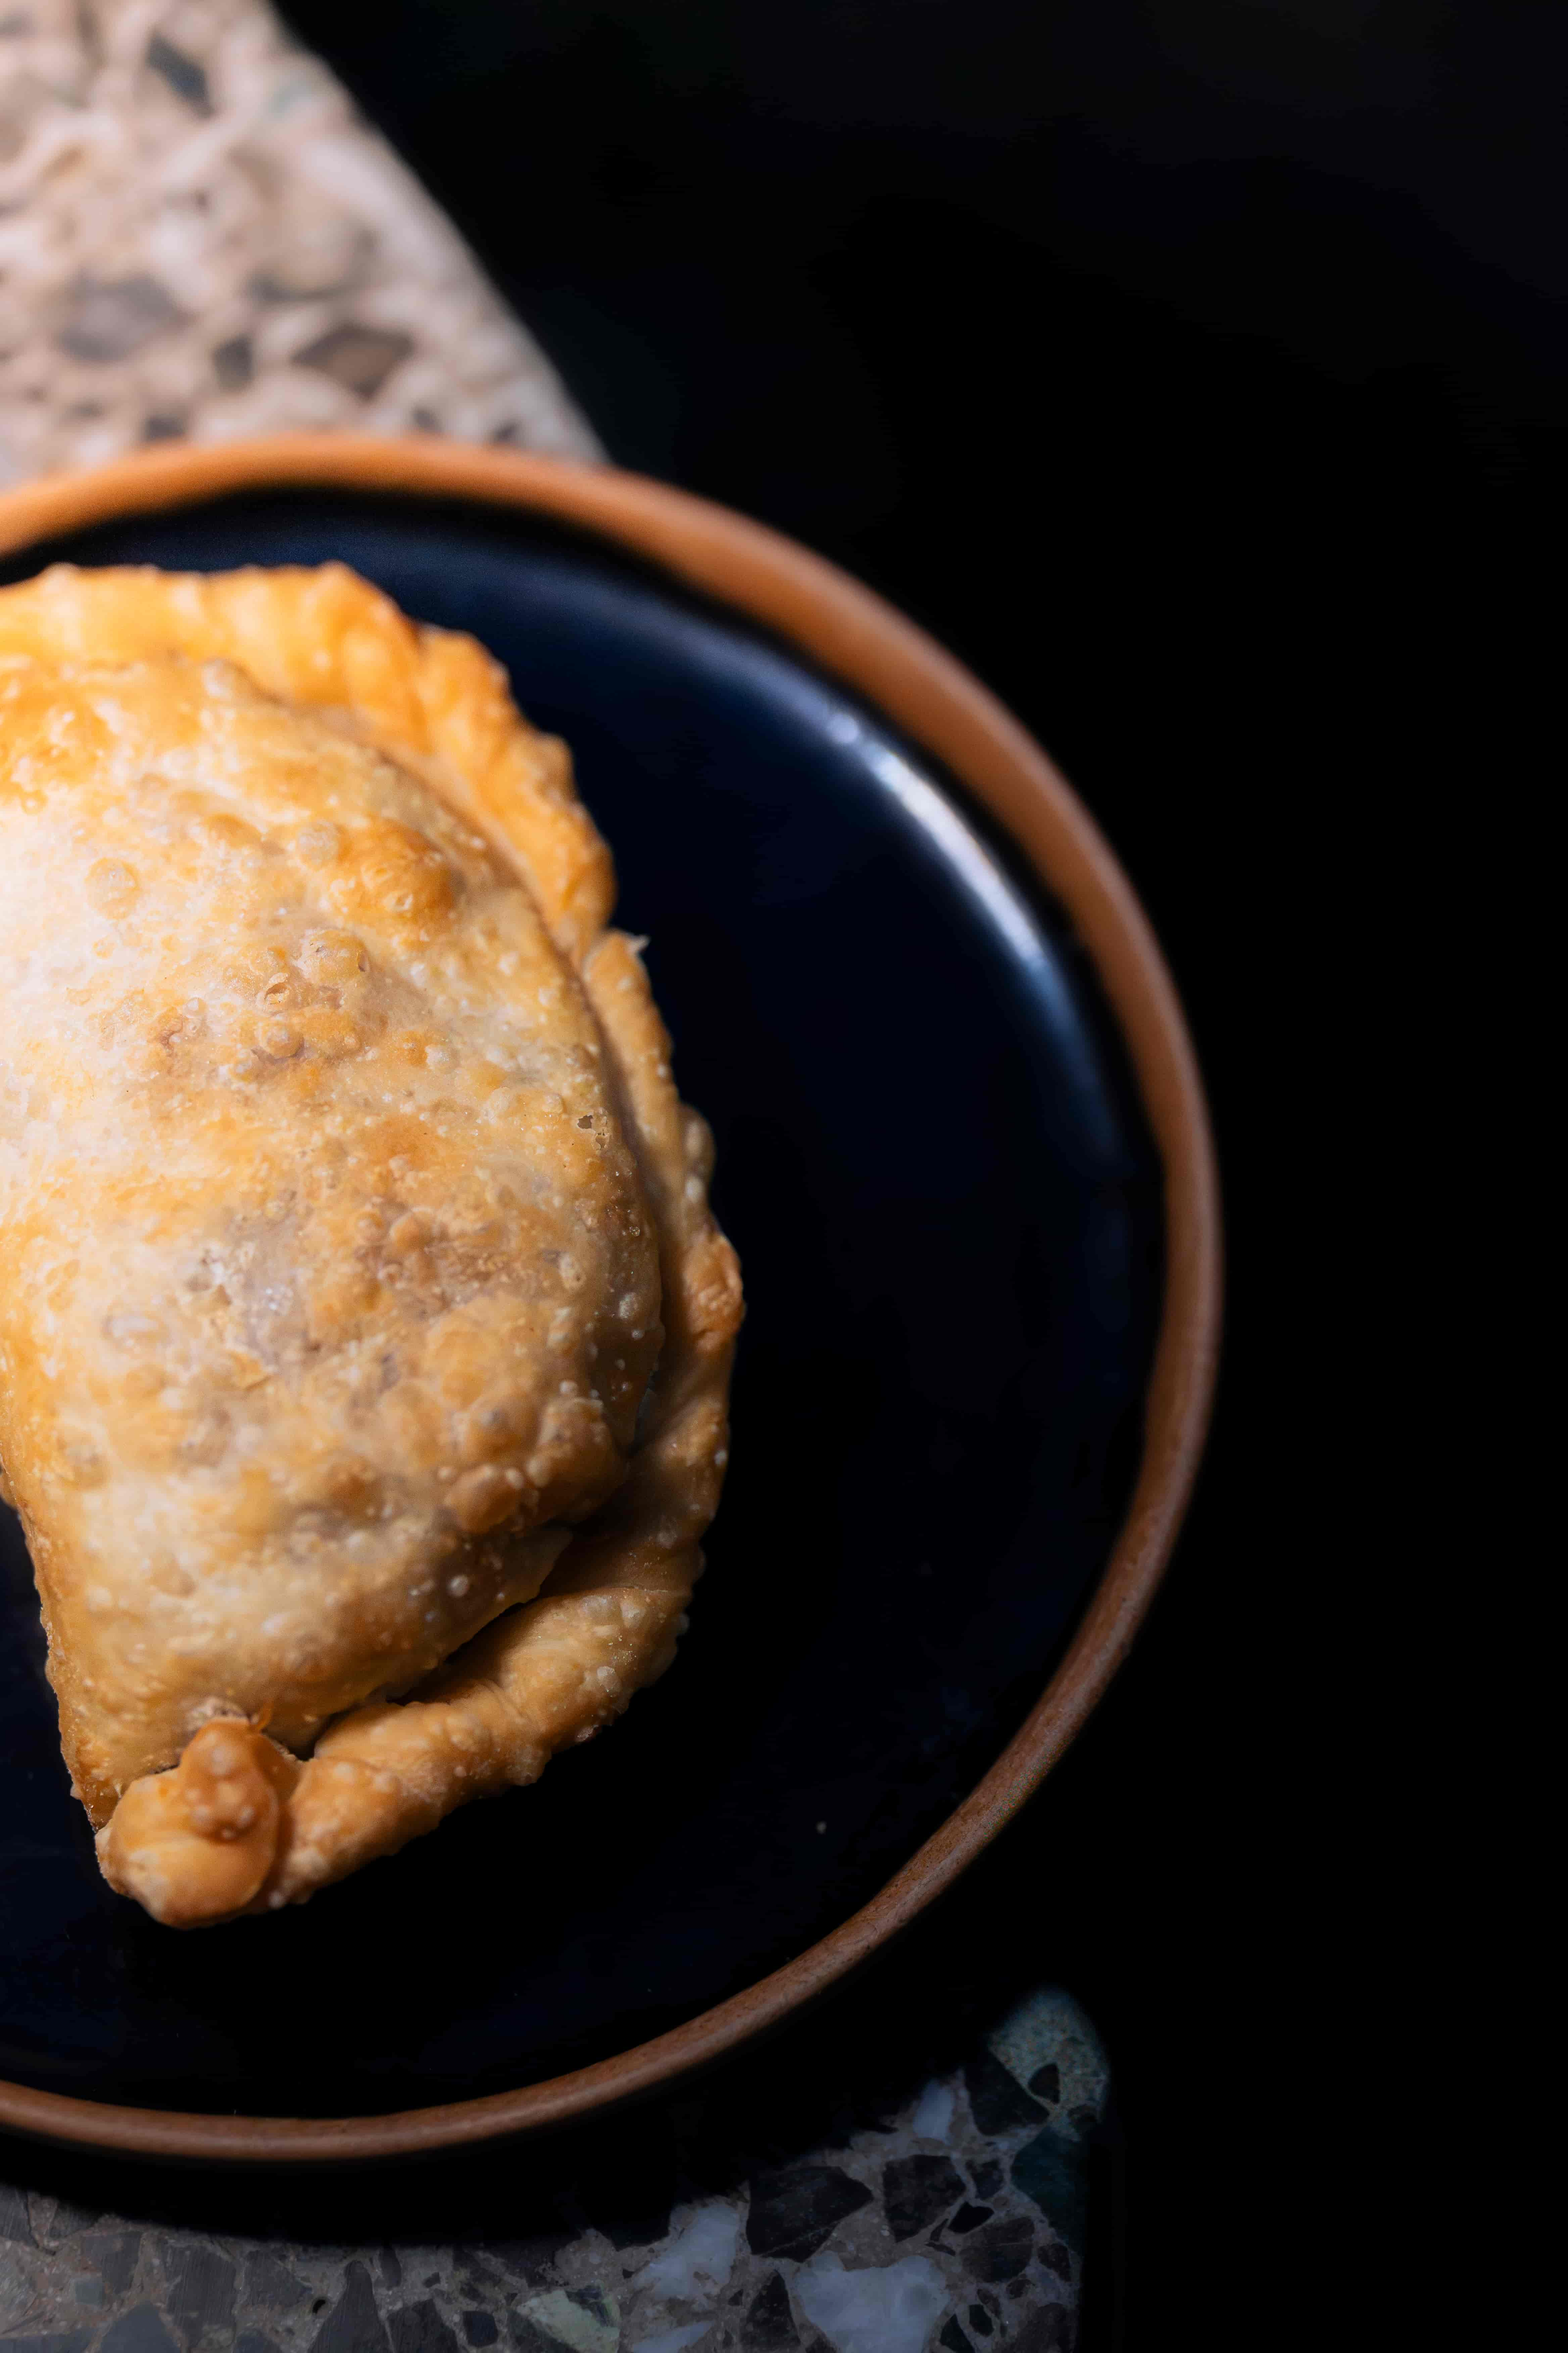
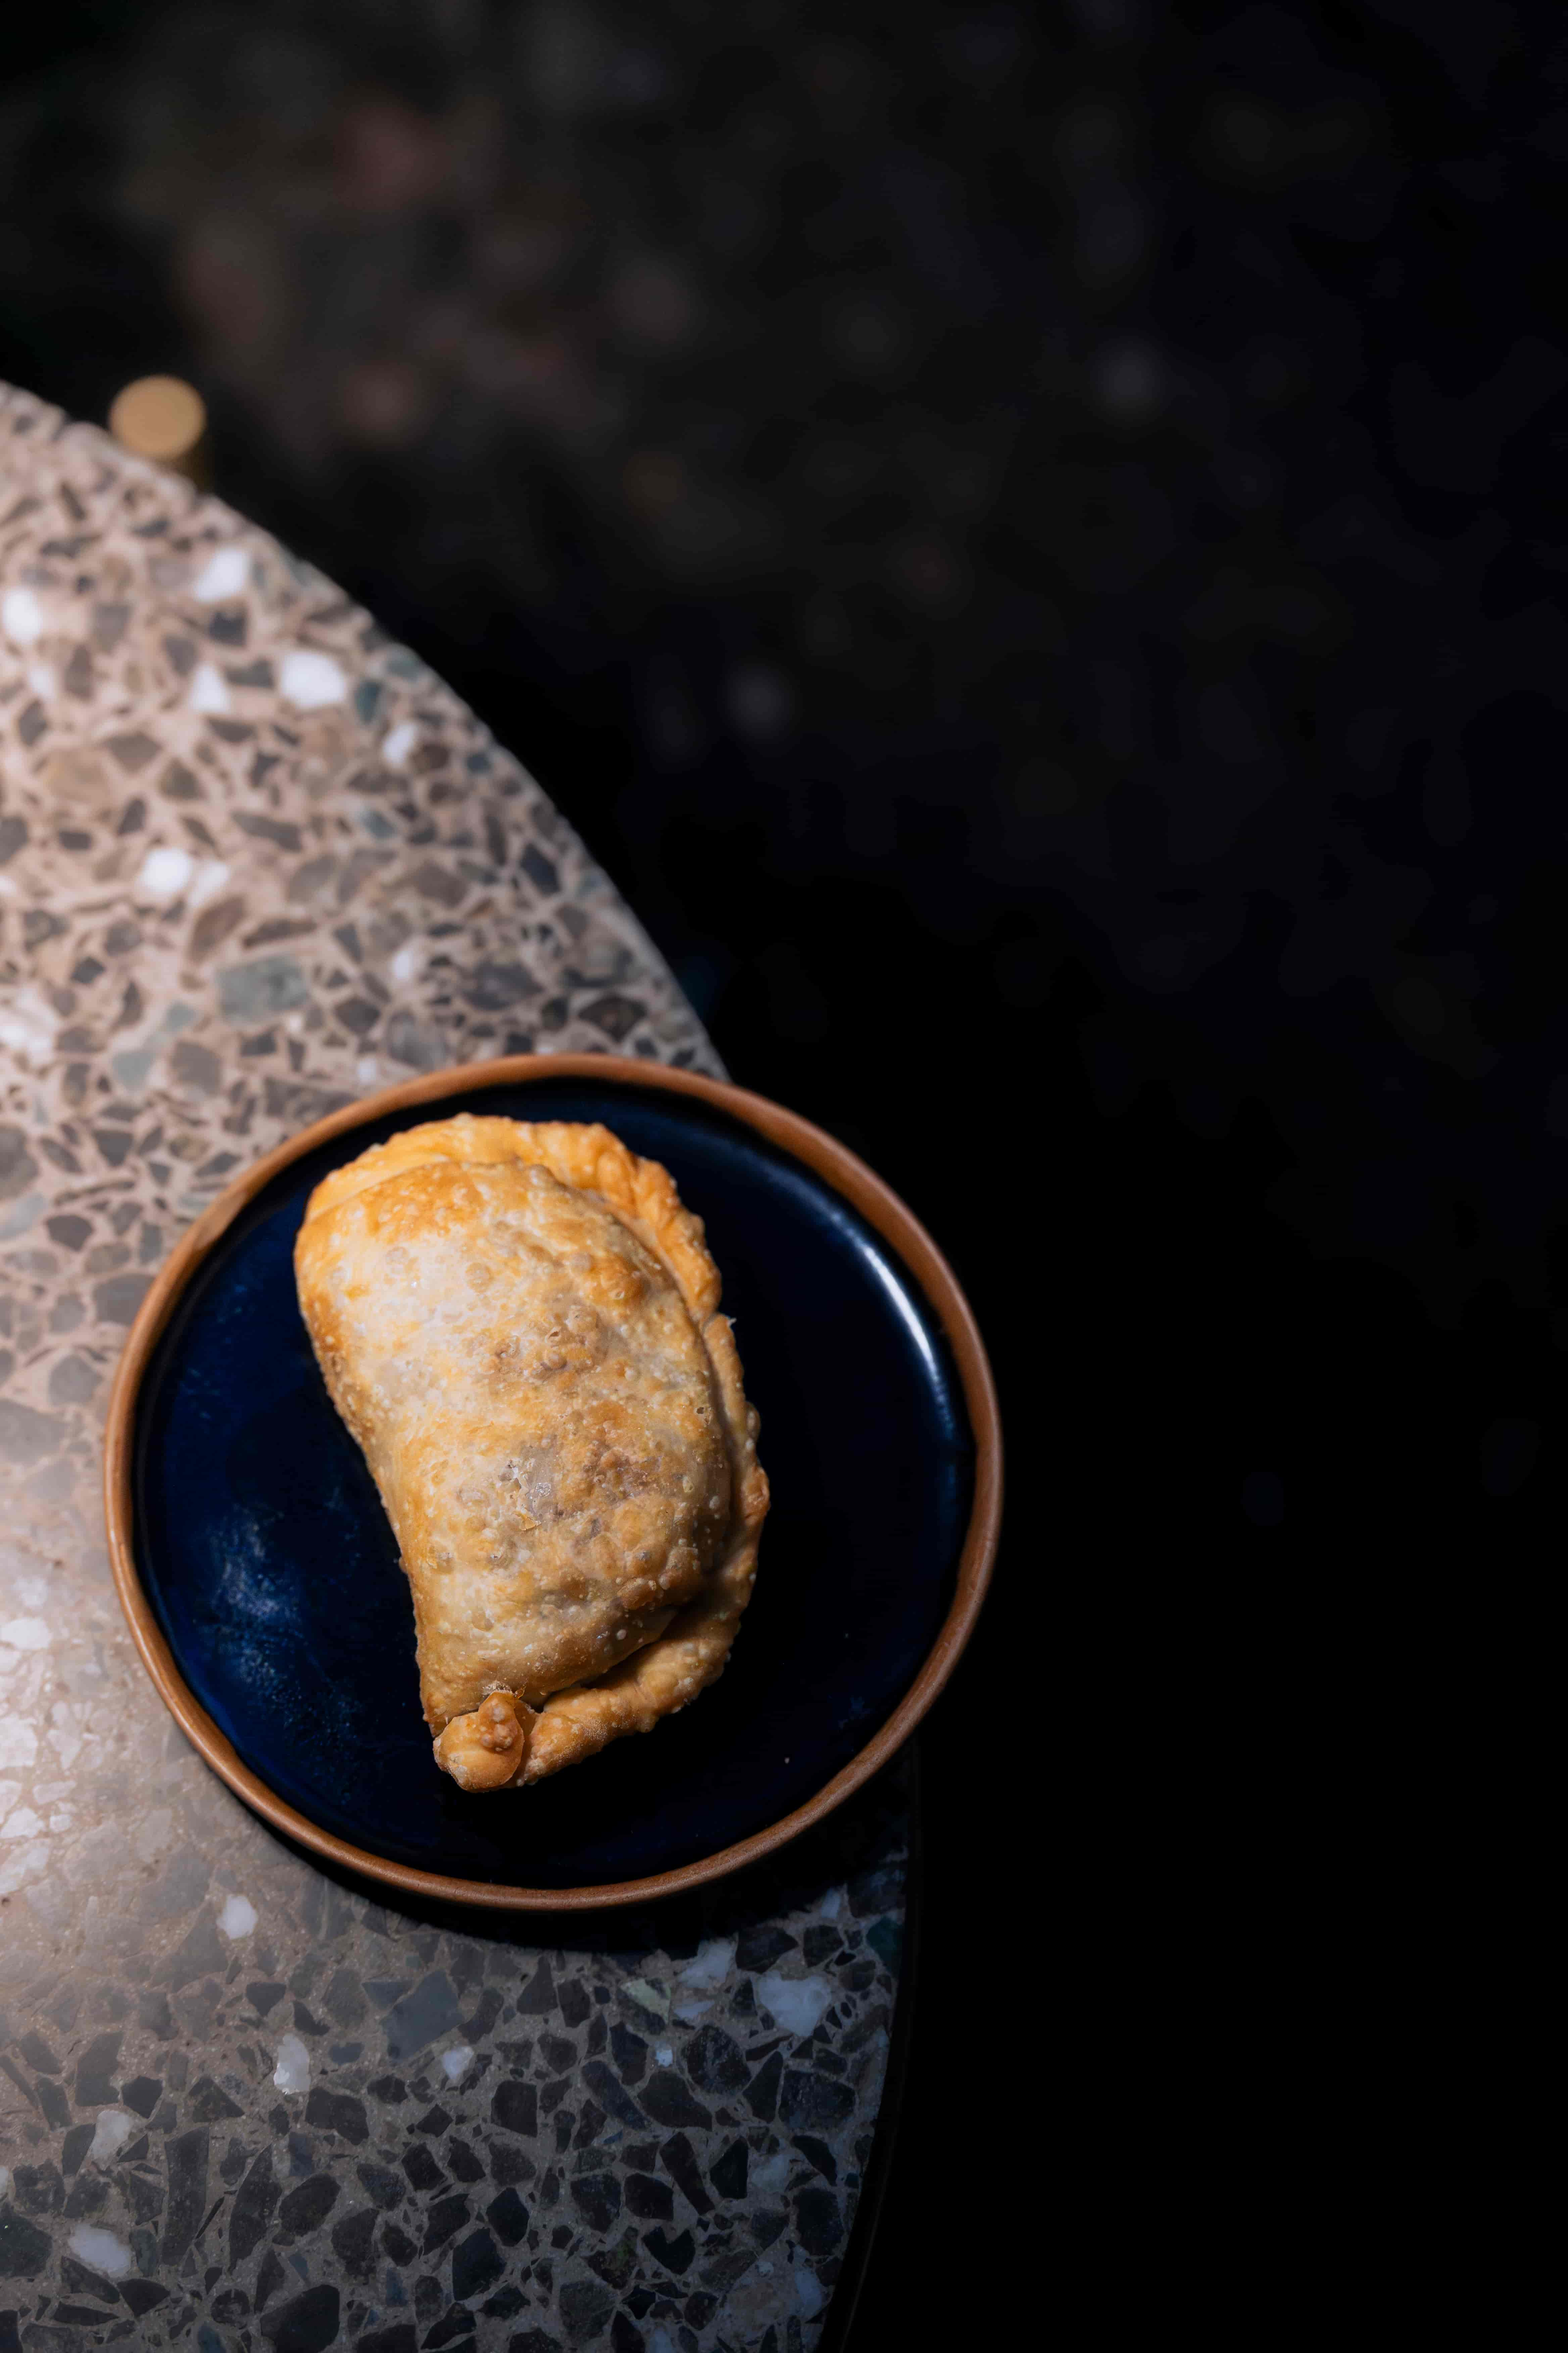
Add and optimize new product images (WebP) and update code logic (script.js, quiz.html)

diff --git a/fina-website/script.js b/fina-website/script.js
@@ -48,10 +48,12 @@ document.addEventListener('DOMContentLoaded', () => {
         "Cobá": "images/Coba.webp",
         "Crazy Quince": "images/Crazy Quince.webp",
         "Cynar Julep": "images/Cynar Julep.webp",
+        "Dry Martini": "images/Dry Martini.webp",
         "El Cesar": "images/El Cesar.webp",
         "Empanadas Capresse": "images/Empanadas caprese.webp",
         "Empanada de Carne": "images/Empanada de Carne.webp",
         "Ensalada Caesar": "images/Ensalada Cesar.webp",
+        "Ensalada Mariscona": "images/Ensalada Mariscona.webp",
         "Fernet Branca": "images/Fernet Branca.webp",
         "Gaucho Martin Fierro": "images/Gaucho Martin Fierro.webp",
         "Gin Tonic": "images/Gin Tonic.webp",
@@ -59,17 +61,22 @@ document.addEventListener('DOMContentLoaded', () => {
         "Hamburguesa Azul": "images/Hamburguesa Azul.webp",
         "Heineken": "images/Heineken TIrada.webp",
         "Hot Chilli": "images/Hot Chili.webp",
+        "La Havana Angosta": "images/La Havana Angosta.webp",
         "Lomo Clásico": "images/Lomo clasico.webp",
         "Luna de Otoño": "images/Luna de otoño.webp",
         "Moscow Mule": "images/Moscow Mule.webp",
+        "Negroni": "images/Negroni.webp",
         "Papas Bravas": "images/Papas bravas.webp",
+        "Papas con Cheddar": "images/Papas con Cheddar.webp",
         "Pinky Cerebro": "images/Pinky Cerebro.webp",
         "Provoleta": "images/Provoleta.webp",
         "Rabas": "images/Rabas.webp",
         "Ramazzotti": "images/Ramazoti Spritz.webp",
         "Roast Beef Sandwich": "images/Roast Beef Sandwich.webp",
+        "Rosso": "images/Rosso.webp",
         "Secreto del Eden": "images/Secreto de Eden.webp",
         "Segundo Intento": "images/Segundo Intento.webp",
+        "Southside": "images/Southside.webp",
         "Tabla de Fiambres": "images/Tabla de Fiambres.webp",
         "Tabla de Mar": "images/Tabla de Mar.webp",
         "Tabla de Quesos": "images/Tabla de quesos.webp",

diff --git a/fina-website/quiz.html b/fina-website/quiz.html
@@ -711,18 +711,21 @@
             // Save this recommendation so we don't repeat it next round
             sessionStorage.setItem('lastRecommendedDrink', selected.name);
 
-            let defaultFallback = "images/default-cocktail.svg";
-            let imgSrc = window.imageMapping && window.imageMapping[selected.name] 
-                ? window.imageMapping[selected.name] 
-                : defaultFallback;
+            // Path logic: Prioritize imageMapping (from script.js), fallback to direct local path, then default SVG
+            const defaultFallback = "images/default-cocktail.svg";
+            let imgSrc = defaultFallback;
 
-            // Final safety check: ensure the image actually exists or use default
-            // In a real environment, we'd check if it 404s, but here we trust imageMapping.
+            if (window.imageMapping && window.imageMapping[selected.name]) {
+                imgSrc = window.imageMapping[selected.name];
+            } else if (selected.name !== fallbackName) {
+                // Try direct match if mapping missing (e.g. "Negroni.webp")
+                imgSrc = `images/${selected.name}.webp`;
+            }
 
             const recContainer = document.getElementById('recommendation-content');
             recContainer.innerHTML = `
                 <div class="recommended-card">
-                    <img src="${imgSrc}" alt="${selected.name}">
+                    <img src="${imgSrc}" alt="${selected.name}" onerror="this.src='${defaultFallback}'">
                     <div class="recommended-info">
                         <h3 class="drink-name">${selected.name}</h3>
                         <div class="drink-separator"></div>
